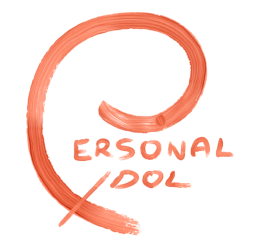
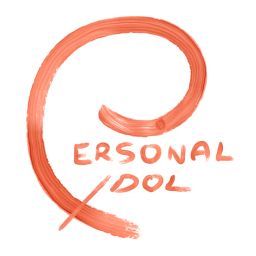
fix camera .lookAt

diff --git a/src/framework/classes/CanvasView/LoadingScreen.ts b/src/framework/classes/CanvasView/LoadingScreen.ts
@@ -1,7 +1,9 @@
 import * as THREE from "three";
 import autoBind from "auto-bind";
-import SchedulerUpdateScenario from "src/framework/enums/SchedulerUpdateScenario";
+
 import CanvasView from "src/framework/classes/CanvasView";
+
+import SchedulerUpdateScenario from "src/framework/enums/SchedulerUpdateScenario";
 
 import cancelable from "src/framework/decorators/cancelable";
 
@@ -9,9 +11,8 @@ import CancelToken from "src/framework/interfaces/CancelToken";
 import CanvasViewBag from "src/framework/interfaces/CanvasViewBag";
 import LoggerBreadcrumbs from "src/framework/interfaces/LoggerBreadcrumbs";
 
-const ROTATION_SPEED = 1;
-
 export default class LoadingScreen extends CanvasView {
+  private accumulatedDelta: number = 0;
   private progress: number = 0;
 
   constructor(loggerBreadcrumbs: LoggerBreadcrumbs, canvasViewBag: CanvasViewBag, group: THREE.Group) {
@@ -23,19 +24,18 @@ export default class LoadingScreen extends CanvasView {
   async attach(cancelToken: CancelToken): Promise<void> {
     await super.attach(cancelToken);
 
-    const ambientLight = new THREE.AmbientLight( 0x404040 );
+    const ambientLight = new THREE.AmbientLight(0x404040);
 
-    this.children.add( ambientLight );
+    this.children.add(ambientLight);
 
-    const spriteMap = new THREE.TextureLoader().load( 'images/personalidol-256x256.png' );
-    const spriteMaterial = new THREE.SpriteMaterial( {
+    const spriteMap = new THREE.TextureLoader().load("images/personalidol-256x256.png");
+    const spriteMaterial = new THREE.SpriteMaterial({
       map: spriteMap,
-      color: 0xffffff
-    } );
-    const sprite = new THREE.Sprite( spriteMaterial );
+      color: 0xffffff,
+    });
+    const sprite = new THREE.Sprite(spriteMaterial);
 
-    sprite.scale.set(1, 1, 1)
-    this.children.add( sprite );
+    this.children.add(sprite);
   }
 
   getName(): "LoadingScreen" {
@@ -47,8 +47,11 @@ export default class LoadingScreen extends CanvasView {
   }
 
   update(delta: number): void {
-    this.children.rotation.x += ROTATION_SPEED * delta;
-    this.children.rotation.y += ROTATION_SPEED * delta;
+    this.accumulatedDelta += delta;
+
+    const scale = 0.9 + 0.05 * Math.sin(this.accumulatedDelta);
+
+    this.children.scale.set(scale, scale, 1);
   }
 
   useUpdate(): SchedulerUpdateScenario.Always {

diff --git a/src/framework/classes/CanvasView/MD2Character.ts b/src/framework/classes/CanvasView/MD2Character.ts
@@ -27,7 +27,6 @@ export default class MD2Character extends CanvasView implements IMD2CharacterVie
   readonly angle: number;
   readonly animationOffset: number;
   readonly baseUrl: string;
-  readonly characterGroup: THREE.Group = new THREE.Group();
   readonly loggerBreadcrumbs: LoggerBreadcrumbs;
   readonly queryBus: QueryBus;
   readonly skin: number;
@@ -58,8 +57,8 @@ export default class MD2Character extends CanvasView implements IMD2CharacterVie
     this.skin = entity.skin;
     this.threeLoadingManager = threeLoadingManager;
 
-    this.characterGroup.position.set(entity.origin[0], entity.origin[1], entity.origin[2]);
-    this.boundingBox = new THREE.Box3().setFromCenterAndSize(this.characterGroup.position, boundingBoxSize);
+    this.children.position.set(entity.origin[0], entity.origin[1], entity.origin[2]);
+    this.boundingBox = new THREE.Box3().setFromCenterAndSize(this.children.position, boundingBoxSize);
   }
 
   @cancelable()
@@ -94,9 +93,7 @@ export default class MD2Character extends CanvasView implements IMD2CharacterVie
     character.setSkin(this.skin);
     character.update(this.animationOffset);
 
-    this.characterGroup.add(character.root);
-    this.children.add(this.characterGroup);
-
+    this.children.add(character.root);
     this.character = character;
 
     this.setRotationY(THREE.MathUtils.degToRad(this.angle));
@@ -127,10 +124,6 @@ export default class MD2Character extends CanvasView implements IMD2CharacterVie
     return "MD2Character";
   }
 
-  getPosition(): THREE.Vector3 {
-    return this.characterGroup.position;
-  }
-
   setAnimationIdle(): void {
     const controls = this.getCharacter().controls;
 
@@ -148,11 +141,11 @@ export default class MD2Character extends CanvasView implements IMD2CharacterVie
   }
 
   setRotationY(rotationRadians: number): void {
-    this.characterGroup.rotation.y = rotationRadians;
+    this.children.rotation.y = rotationRadians;
   }
 
   setVelocity(velocity: THREE.Vector3): void {
-    this.characterGroup.position.add(velocity);
+    this.children.position.add(velocity);
     this.boundingBox.translate(velocity);
   }
 

diff --git a/src/framework/classes/CanvasController/Player.ts b/src/framework/classes/CanvasController/Player.ts
@@ -22,19 +22,8 @@ import { default as IPointerController } from "src/framework/interfaces/CanvasCo
 
 import QuakeWorkerPlayer from "src/framework/types/QuakeWorkerPlayer";
 
+const LOOK_AT_DISTANCE = 1024;
 const SPEED_UNITS_PER_SECOND = 300;
-
-function cameraLookAt(self: Player, position: THREE.Vector3): void {
-  const baseDistance = 256 * 3;
-
-  self.gameCameraController.camera.lookAt(position);
-  // prettier-ignore
-  self.gameCameraController.camera.position.set(
-    position.x + baseDistance,
-    position.y + baseDistance,
-    position.z + baseDistance
-  );
-}
 
 export default class Player extends CanvasController implements HasLoggerBreadcrumbs {
   readonly entity: QuakeWorkerPlayer;
@@ -97,7 +86,7 @@ export default class Player extends CanvasController implements HasLoggerBreadcr
 
     await this.loadingManager.blocking(this.canvasViewBag.add(cancelToken, this.playerView), "Loading player view");
 
-    cameraLookAt(this, new THREE.Vector3().fromArray(this.entity.origin));
+    this.gameCameraController.lookAtFromDistance(this.playerView.getPosition(), LOOK_AT_DISTANCE);
   }
 
   @cancelable()
@@ -138,6 +127,6 @@ export default class Player extends CanvasController implements HasLoggerBreadcr
     this.playerView.setRotationY(pointerVector.angle());
     this.playerView.setVelocity(velocity);
 
-    cameraLookAt(this, this.playerView.getPosition());
+    this.gameCameraController.lookAtFromDistance(this.playerView.getPosition(), LOOK_AT_DISTANCE);
   }
 }

diff --git a/src/framework/classes/CanvasController/LoadingScreen.ts b/src/framework/classes/CanvasController/LoadingScreen.ts
@@ -69,7 +69,7 @@ export default class LoadingScreen extends CanvasController {
     await this.canvasControllerBus.add(cancelToken, this.loaderCameraController);
     await this.canvasViewBag.add(cancelToken, this.loadingScreenView);
 
-    this.loaderCameraController.camera.position.set(0, 1024, 0);
+    this.loaderCameraController.camera.position.set(0, 512, 0);
     this.loaderCameraController.camera.lookAt(new THREE.Vector3(0, 0, 0));
     // this.loaderCameraController.setZoom(0.1);
   }
@@ -85,7 +85,7 @@ export default class LoadingScreen extends CanvasController {
 
   draw(delta: number): void {
     if (!this.loadingManager.isBlocking()) {
-      // return;
+      return;
     }
 
     this.loaderEffectComposer.render(delta);

diff --git a/src/framework/classes/CanvasController/PerspectiveCamera.ts b/src/framework/classes/CanvasController/PerspectiveCamera.ts
@@ -68,6 +68,16 @@ export default class PerspectiveCamera extends CanvasController implements HasLo
     this.setZoom(clamp(this.zoom + step, this.zoom, max));
   }
 
+  lookAtFromDistance(position: THREE.Vector3, distance: number): void {
+    const distanceVector = new THREE.Vector3(1, 1, 1)
+      .normalize()
+      .multiplyScalar(distance)
+      .clampLength(0, distance);
+
+    this.camera.position.copy(position).add(distanceVector);
+    this.camera.lookAt(position);
+  }
+
   resize(viewportSize: ElementSize<ElementPositionUnit.Px>): void {
     const height = viewportSize.getHeight();
     const width = viewportSize.getWidth();

diff --git a/src/framework/interfaces/CanvasController/PerspectiveCamera.ts b/src/framework/interfaces/CanvasController/PerspectiveCamera.ts
@@ -8,13 +8,15 @@ export default interface PerspectiveCamera extends CanvasController {
   readonly onFrustumChange: EventListenerSet<[THREE.Frustum]>;
   readonly onZoomChange: EventListenerSet<[number]>;
 
+  decreaseZoom(step: number, min: number): void;
+
   getCamera(): THREE.PerspectiveCamera;
 
   getZoom(): number;
 
-  decreaseZoom(step: number, min: number): void;
-
   increaseZoom(step: number, max: number): void;
+
+  lookAtFromDistance(position: THREE.Vector3, distance: number): void;
 
   setZoom(zoom: number): void;
 }

diff --git a/src/framework/classes/CanvasController/Root.ts b/src/framework/classes/CanvasController/Root.ts
@@ -175,7 +175,7 @@ export default class Root extends CanvasController implements HasLoggerBreadcrum
       return;
     }
 
-    // this.gameEffectComposer.render(delta);
+    this.gameEffectComposer.render(delta);
   }
 
   resize(elementSize: ElementSize<ElementPositionUnit.Px>): void {

diff --git a/src/framework/classes/CanvasView.ts b/src/framework/classes/CanvasView.ts
@@ -71,6 +71,10 @@ export default abstract class CanvasView implements HasLoggerBreadcrumbs, ICanva
     return this.children;
   }
 
+  getPosition(): THREE.Vector3 {
+    return this.getChildren().position;
+  }
+
   isAttached(): boolean {
     return this._isAttached;
   }

diff --git a/src/framework/interfaces/CanvasView/MD2Character.ts b/src/framework/interfaces/CanvasView/MD2Character.ts
@@ -3,8 +3,6 @@ import * as THREE from "three";
 import CanvasView from "src/framework/interfaces/CanvasView";
 
 export default interface MD2Character extends CanvasView {
-  getPosition(): THREE.Vector3;
-
   setAnimationIdle(): void;
 
   setAnimationRunning(): void;

diff --git a/src/framework/classes/SceneManager.ts b/src/framework/classes/SceneManager.ts
@@ -1,0 +1,4 @@
+import { default as SceneManagerInterface } from "src/framework/interfaces/SceneManager";
+
+// scene manager is a state machine that switches between scenes
+export default class SceneManager implements SceneManagerInterface {}

diff --git a/src/framework/interfaces/CanvasView/Sandbox.ts b/src/framework/interfaces/CanvasView/Sandbox.ts
@@ -2,5 +2,4 @@ import * as THREE from "three";
 
 import CanvasView from "src/framework/interfaces/CanvasView";
 
-export default interface Sandbox extends CanvasView {
-}
+export default interface Sandbox extends CanvasView {}

diff --git a/src/framework/interfaces/CanvasView.ts b/src/framework/interfaces/CanvasView.ts
@@ -12,6 +12,8 @@ export default interface CanvasView extends AnimatableUpdatable, CameraFrustumRe
 
   getChildren(): THREE.Group;
 
+  getPosition(): THREE.Vector3;
+
   getName(): string;
 
   useCameraFrustum(): boolean;
